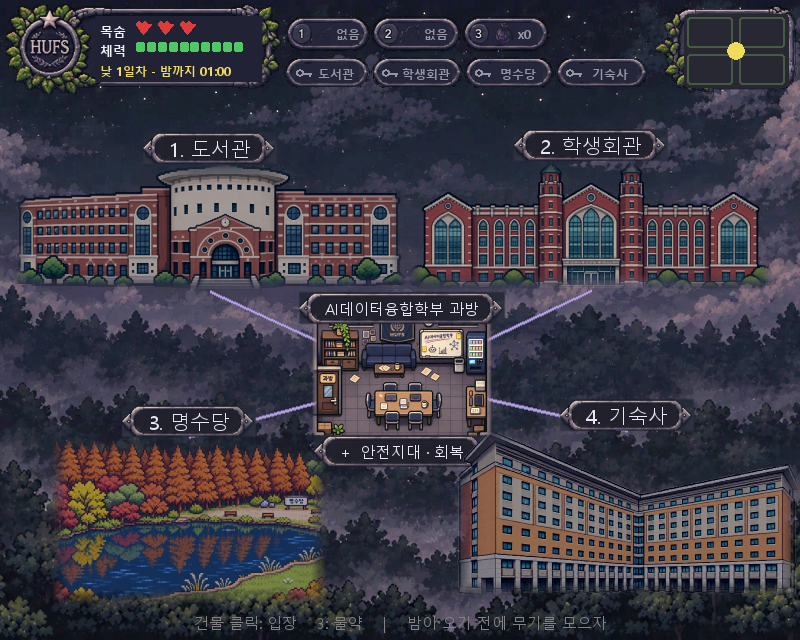
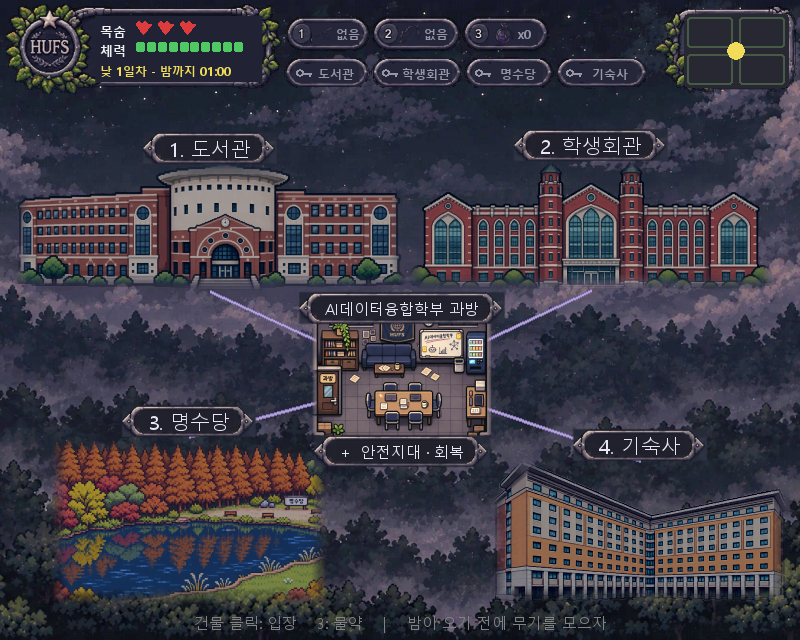
긱사 이미지 수정 + 밤 색감 변경

Changed region(s): [[0.5625, 0.625, 1.0, 0.9375]]

diff --git a/scenes.py b/scenes.py
@@ -3,7 +3,7 @@ import pygame
 
 from settings import (SCREEN_W, SCREEN_H, HUD_HEIGHT, TILE, ZONE_LAYOUT, VIEW_COLS, VIEW_ROWS,
                       TRANSITION_TIME, NIGHT_VISION_RADIUS, CENTER_REGEN_PER_SEC,
-                      ZONE_BUILDING_IMAGES, CENTER_IMAGE, CENTER_MAP_CROPS,
+                      ZONE_BUILDING_IMAGES, CENTER_IMAGE, CENTER_MAP_CROPS, CENTER_BUILDING_ADJUST, CENTER_NIGHT_SHADE,
                       CENTER_ROOM_IMAGE, CENTER_LABEL,
                       CENTER_NAME, FINAL_ZONE_NAME,
                       BG, BLACK, WHITE, GRAY, YELLOW, GOLD, GREEN, PURPLE, HOME_COLOR, DOOR_COLOR)
@@ -89,12 +89,14 @@ class CenterScene(Scene):
             play = pygame.Rect(0, HUD_HEIGHT, SCREEN_W, SCREEN_H - HUD_HEIGHT)
             for zid, crop in CENTER_MAP_CROPS.items():
                 art = load_image(ZONE_BUILDING_IMAGES.get(zid))
+                size, dx, dy = CENTER_BUILDING_ADJUST.get(zid, (1.0, 0, 0))   # 건물별 크기·위치 미세 조정
                 if art:     # 건물 그림이 있으면 그 그림을 디자인 그림 속 자리에 (밤 색감으로)
-                    img = sk.building(art, crop, sk.tone_of(crop))   # 디자인 그림 속 같은 건물 색감으로
+                    img = sk.building(art, crop, sk.tone_of(crop), fit=1.08 * size)   # 같은 건물 색감으로
                 else:       # 없으면 디자인 그림에서 잘라낸 건물
-                    img = sk.piece(crop, sk.BUILDING_SCALE)
+                    img = sk.piece(crop, sk.BUILDING_SCALE * size)
                 self.building_imgs[zid] = img
-                self.zone_rects[zid] = img.get_rect(center=sk.center_point(crop)).clamp(play)
+                cx, cy = sk.center_point(crop)
+                self.zone_rects[zid] = img.get_rect(center=(cx + dx, cy + dy)).clamp(play)
             self.home_pos = tuple(map(int, sk.center_point(sk.CENTER)))
             room = load_image(CENTER_ROOM_IMAGE)
             self.center_labels = []
@@ -146,6 +148,7 @@ class CenterScene(Scene):
             surf.blit(self.background, (0, HUD_HEIGHT))
         s = self.MINI_SCALE
         mouse = pygame.mouse.get_pos()
+        tags = []                            # 이름표: 맨 나중에(밤 어둠 위에) 그림
         for zid, rect in self.zone_rects.items():
             zone = g.world.zones[zid]
             # 과방에서 각 건물로 이어지는 길
@@ -164,8 +167,7 @@ class CenterScene(Scene):
         if self.center_img:
             r = self.center_img.get_rect(center=self.home_pos)
             surf.blit(self.center_img, r)
-            for img, rect in getattr(self, "center_labels", []):
-                surf.blit(img, rect)
+            tags.extend(getattr(self, "center_labels", []))   # 이름표는 밤 어둠 위에 (밝게 보이게)
         if self.center_img and not self.skin:            # 디자인 그림에는 이름표가 이미 있음
             r = self.center_img.get_rect(center=self.home_pos)
             text = "안전지대 · 회복"
@@ -203,8 +205,6 @@ class CenterScene(Scene):
             label = f"{zid}. {zone.name}"
             if inv.has_key_for(zid):
                 label += " - 키 획득"
-            elif g.is_night and zone.monsters:
-                label += f" - {zone.monster_name} 출몰"
             if self.skin:                    # 디자인 그림의 이름표 틀 + 실제 상태 글자, 건물 위 가운데
                 color = GOLD if inv.has_key_for(zid) else ((205, 175, 255) if g.is_night else (235, 230, 245))
                 tag_img = self.skin.label(g.font.render(label, True, color))
@@ -219,7 +219,7 @@ class CenterScene(Scene):
                     else:
                         tag.left = center.right
                 tag.clamp_ip(pygame.Rect(0, HUD_HEIGHT + 2, SCREEN_W, SCREEN_H))
-                surf.blit(tag_img, tag)
+                tags.append((tag_img, tag))
                 continue
             color = GOLD if inv.has_key_for(zid) else (PURPLE if g.is_night else WHITE)
             img = g.font_small.render(label, True, color)
@@ -228,7 +228,15 @@ class CenterScene(Scene):
             else:                              # 오른쪽 건물: 가운데 과방과 안 겹치게 오른쪽 정렬
                 tag = img.get_rect(bottomright=(rect.right, rect.y - 4))
             tag.top = max(tag.top, HUD_HEIGHT + 2)
-            surf.blit(img, tag)
+            tags.append((img, tag))
+
+        if g.is_night:                       # 밤: 지도(HUD 아래)를 조금 어둡게
+            if not hasattr(self, "_night_shade"):
+                self._night_shade = pygame.Surface((SCREEN_W, SCREEN_H - HUD_HEIGHT), pygame.SRCALPHA)
+                self._night_shade.fill(CENTER_NIGHT_SHADE)
+            surf.blit(self._night_shade, (0, HUD_HEIGHT))
+        for img, rect in tags:
+            surf.blit(img, rect)
 
         exit_zone = next((z for z in g.world.zones.values() if z.exit_open), None)
         if exit_zone:

diff --git a/themes.py b/themes.py
@@ -162,6 +162,7 @@ class CourtyardTheme(Theme):
     BORDER_DARK = 90        # 참고 그림 조각 테두리(검은 틀) 판정: 한 줄 평균 밝기(R+G+B)가 이보다 어두우면 틀
     EDGE_SAMPLE = 0.04           # 양옆 빈 곳 색을 가져올 그림 가장자리 폭 (그림 폭 대비)
     EDGE_FADE = 40               # 건물 그림과 양옆 배경을 부드럽게 섞는 폭(px, 화면 기준)
+    COVER_IF_GAP = 0.15          # 양옆 빈 곳이 띠 폭의 이 비율보다 작으면 채우지 않고 그림을 키워 꽉 채움
 
     def _trimmed_band(self):
         """band 영역에서 바깥 검은 틀(테두리)을 잘라낸 영역. 한 번 계산해 둠."""
@@ -185,6 +186,15 @@ class CourtyardTheme(Theme):
         area = pygame.Rect(0, 0, maze.cols * scale, self.band_rows * scale)
         src = self._trimmed_band()                                       # 검은 틀 뺀 건물 그림
         k = min(area.width / src.width, area.height / src.height)
+        if src.width * k >= area.width * (1 - self.COVER_IF_GAP):
+            # 그림이 거의 띠 폭만 하면(명수당·학생회관) 양옆을 채우지 말고 그림을 살짝 키워 폭을 꽉 채움.
+            # 좁은 틈을 늘린 색으로 채우면 가로 줄무늬가 생겨서. 넘치는 위쪽(하늘)만 조금 잘림
+            k = max(area.width / src.width, area.height / src.height)
+            img = self._crop(src, round(src.width * k), round(src.height * k))
+            surf.set_clip(area)                                          # 띠 밖으로 넘치는 부분은 안 그림
+            surf.blit(img, img.get_rect(midbottom=area.midbottom))
+            surf.set_clip(None)
+            return
         img = self._crop(src, round(src.width * k), round(src.height * k)).convert_alpha()
         rect = img.get_rect(midbottom=area.midbottom)
         # 1) 양옆 빈 곳: 건물 그림 가장자리(폭의 EDGE_SAMPLE) 배경색을 줄마다 뽑아(중앙값: 가로등 같은 밝은 점 무시)

diff --git a/hud.py b/hud.py
@@ -4,7 +4,7 @@ import pygame
 from themes import load_sprite, load_image
 
 from settings import (SCREEN_W, SCREEN_H, HUD_HEIGHT, ZONE_LAYOUT, PLAYER_MAX_HP, FINAL_ZONE_ID, FONT_NAMES,
-                      ZONE_NAMES, BOSS_NAME, ITEM_SPRITES, MAIN_BACKGROUND, CENTER_TONE_BG,
+                      ZONE_NAMES, BOSS_NAME, ITEM_SPRITES, MAIN_BACKGROUND, CENTER_TONE_BG, CENTER_NIGHT_SHADE,
                       HUD_BG, WHITE, GRAY, RED, DARK_RED, GREEN, GOLD, YELLOW,
                       HOME_COLOR, PURPLE)
 
@@ -114,6 +114,10 @@ class HudSkin:
         bg = screen_background()                       # HUD 뒤에도 메인 배경 그림 (없으면 검정)
         if bg:
             surf.blit(bg, (0, 0), (0, 0, SCREEN_W, HUD_HEIGHT))
+            if game.is_night:                          # 밤: 지도 화면과 같이 배경만 조금 어둡게
+                shade = pygame.Surface((SCREEN_W, HUD_HEIGHT), pygame.SRCALPHA)
+                shade.fill(CENTER_NIGHT_SHADE)
+                surf.blit(shade, (0, 0))
         else:
             surf.fill((0, 0, 0), (0, 0, SCREEN_W, HUD_HEIGHT))
         surf.blit(self.base, (0, 0))

diff --git a/settings.py b/settings.py
@@ -42,6 +42,9 @@ CENTER_MAP_CROPS = {1: (120, 262, 640, 205),    # 도서관 (왼쪽 위)
                     2: (915, 257, 640, 208),    # 학생회관 (오른쪽 위)
                     3: (85, 640, 620, 268),     # 명수당 (왼쪽 아래)
                     4: (1000, 632, 630, 266)}   # 기숙사 (오른쪽 아래)
+# 건물별 미세 조정: (크기 배율, 오른쪽으로 px, 아래로 px). 없는 건물은 (1.0, 0, 0)
+CENTER_BUILDING_ADJUST = {4: (0.86, 10, 18)}      # 기숙사: 조금 작게, 조금 아래로
+CENTER_NIGHT_SHADE = (5, 8, 28, 95)    # 밤에 과방 지도 위에 덮는 색 (R, G, B, 진하기 0~255). 이름표·HUD는 안 어두워짐
 # 과방 지도 색감: 메인 디자인 그림(center_design.png)의 색 분포(채널별 평균, 표준편차)에 그림들을 맞춤
 #   배경(밤하늘·숲)은 아래 값으로, 건물·과방은 디자인 그림 속 같은 건물 부분(CENTER_MAP_CROPS)에서 자동으로 잼
 CENTER_TONE_BG = ((48, 50, 65), (24, 20, 22))
